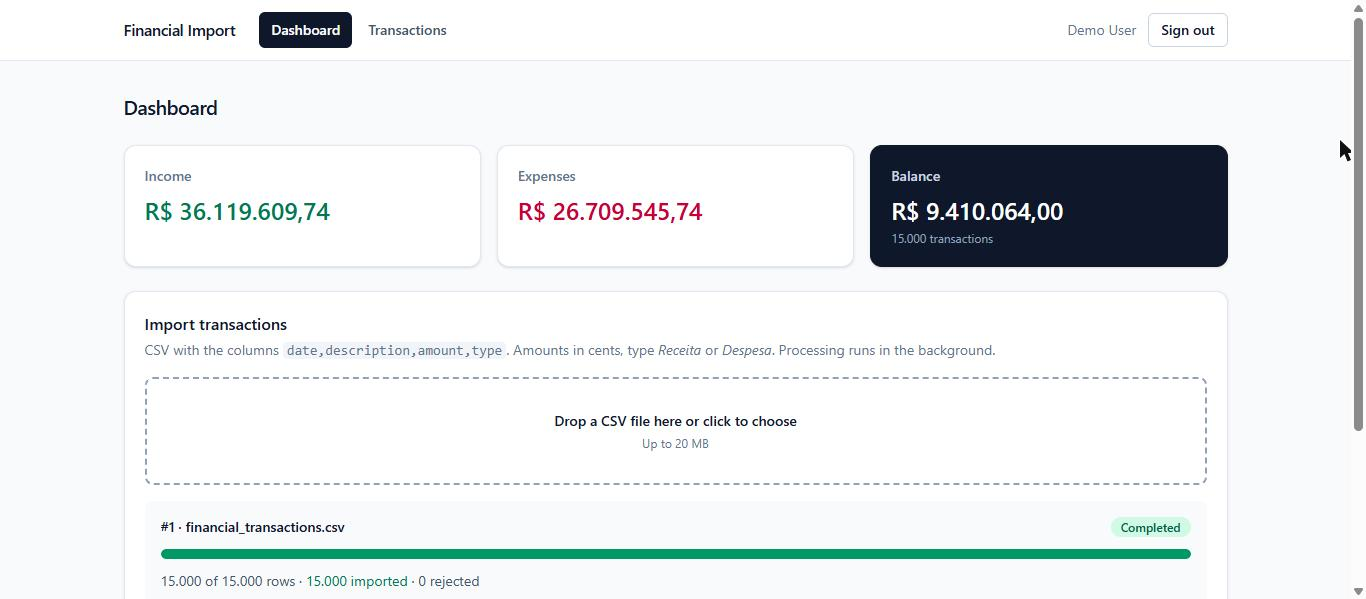
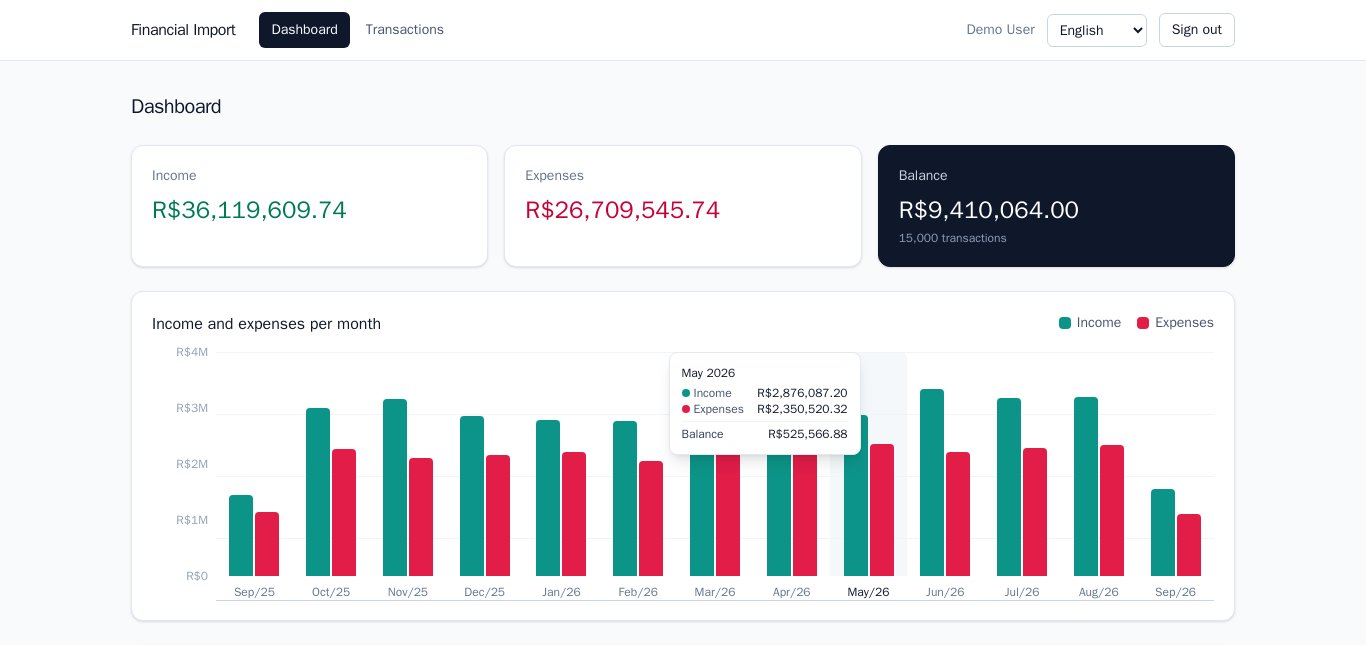
docs: describe the features beyond the brief and refresh the dashboard screenshots

diff --git a/README.md b/README.md
@@ -6,7 +6,8 @@
 
 Sistema de importação e gestão financeira a partir de CSV. Uma **API REST em Laravel 13** recebe o
 arquivo, uma **fila** valida e grava os dados em blocos paralelos, e uma **SPA em Vue 3** mostra o
-progresso do envio, um painel em cache com receitas, despesas e saldo, e a lista paginada das transações.
+progresso do envio, um painel em cache com receitas, despesas, saldo e gráfico mensal, e a lista paginada das
+transações, com busca e exportação em CSV.
 
 | Painel depois de importar o arquivo fornecido | Importação de 200 mil linhas em andamento |
 |---|---|
@@ -39,6 +40,21 @@ progresso do envio, um painel em cache com receitas, despesas e saldo, e a lista
 | Extra: CI rodando os testes | [GitHub Actions](.github/workflows/ci.yml): backend, frontend, pilha completa | Selo no topo |
 | Extra: aviso quando o processamento termina | Polling inteligente (intervalo crescente, pausa com a aba escondida); evento `ImportFinished` pronto para WebSockets | `usePolling.test.ts` |
 | Extra: tudo em inglês | Código, commits e documentação da API em inglês; interface e mensagens da API em português ou inglês ([`i18n/`](frontend/src/i18n), [`SetLocaleFromHeader`](backend/app/Http/Middleware/SetLocaleFromHeader.php)) | [`i18n.test.ts`](frontend/src/i18n/i18n.test.ts), [`LocalizationTest`](backend/tests/Feature/Http/LocalizationTest.php) |
+
+## Além do pedido
+
+O enunciado pede importação, painel e lista. Estes cinco recursos completam o uso do dia a dia:
+
+| Recurso | Como funciona | Prova |
+|---|---|---|
+| **Vários arquivos de uma vez** | Arraste ou escolha até 10 CSVs: cada um vira uma importação na fila e o resultado aparece por arquivo (enviado, repetido, inválido). A lista de importações se atualiza sozinha até todas terminarem. | Conferido no navegador; limite igual ao de envios por minuto |
+| **Baixar as linhas recusadas** | Um CSV com linha, motivo e conteúdo original, para corrigir o arquivo e reenviar. Lido de mil em mil linhas, na ordem do arquivo. | [`FailureExportTest`](backend/tests/Feature/Exports/FailureExportTest.php) |
+| **Busca pela descrição** | Parte do texto, sem diferenciar maiúsculas nem acentos ("licenca" acha "Licença"). `%` e `_` digitados valem como texto, não como curinga. | `searches the description` em [`ListTransactionsTest`](backend/tests/Feature/Transactions/ListTransactionsTest.php) |
+| **Exportar a lista em CSV** | Os mesmos filtros da tela, no **mesmo formato da importação**: o arquivo exportado pode ser importado de novo. Gerado em fluxo, com paginação por chave (memória constante em qualquer tamanho). UTF-8 com BOM, `;` em português (Excel brasileiro) e `,` em inglês, e proteção contra fórmula em célula (CSV injection). | [`TransactionExportTest`](backend/tests/Feature/Exports/TransactionExportTest.php) |
+| **Gráfico mensal** | Receitas e despesas por mês, com o saldo do mês ao passar o mouse. Sem biblioteca de gráficos; cores conferidas para daltonismo e tabela equivalente para leitor de tela. Vem do mesmo cache do painel e é renovado pelos mesmos eventos. | [`MonthlySummaryTest`](backend/tests/Feature/Dashboard/MonthlySummaryTest.php) |
+
+Os motivos de recusa ficam gravados em inglês (o banco e os logs continuam pesquisáveis) e a API os traduz
+para o idioma pedido, na tela e no CSV baixado.
 
 ---
 
@@ -128,10 +144,13 @@ Todas as rotas ficam em `/api/v1`, respondem JSON e, exceto o login, exigem `Aut
 | `POST` | `/imports` | Envia um CSV (`multipart/form-data`, campo `file`). Responde **202** na hora com a importação; **409** se o mesmo arquivo já foi enviado; **422** para arquivo ou cabeçalho errado. |
 | `GET` | `/imports` | As importações do usuário, da mais nova para a mais antiga. |
 | `GET` | `/imports/{id}` | Situação e progresso (`progress` de 0 a 100, `is_finished`), para o polling. |
-| `GET` | `/imports/{id}/failures` | Linhas recusadas: número da linha, conteúdo e motivos. |
+| `GET` | `/imports/{id}/failures` | Linhas recusadas: número da linha, conteúdo e motivos (no idioma pedido). |
+| `GET` | `/imports/{id}/failures/export` | As mesmas linhas recusadas em CSV. |
 | `POST` | `/imports/{id}/retry` | Roda de novo uma importação que falhou (**409** se ela não falhou). Linhas já gravadas não duplicam. |
 | `GET` | `/dashboard/summary` | `income_cents`, `expense_cents`, `balance_cents`, `transaction_count` (em cache). |
-| `GET` | `/transactions` | Lista paginada, da mais nova para a mais antiga. Filtros: `type`, `from`, `to` (`YYYY-MM-DD`), `per_page` (5 a 100), `page`. |
+| `GET` | `/dashboard/monthly` | Os mesmos totais por mês (`YYYY-MM`), do mais antigo para o mais novo (em cache). |
+| `GET` | `/transactions` | Lista paginada, da mais nova para a mais antiga. Filtros: `type`, `from`, `to` (`YYYY-MM-DD`), `q` (parte da descrição), `per_page` (5 a 100), `page`. |
+| `GET` | `/transactions/export` | As transações dos mesmos filtros em CSV, no formato da importação. |
 
 A importação de outro usuário responde **404**, igual a uma que não existe. **Valores são centavos
 inteiros** (`115346` = R$ 1.153,46).
@@ -393,6 +412,8 @@ Rode com `docker compose exec mysql mysql -uapp -psecret financial_import`.
 - **Armazenamento compartilhado:** os workers dividem um volume local com o arquivo enviado. Com várias
   máquinas, seria S3 (ou outro armazenamento de objetos) com leitura por faixa de bytes em cada bloco.
 - **Atualização em tempo real:** hoje é polling. O Reverb transmitiria o `ImportFinished`.
+- **Busca em escala:** a busca por "contém" percorre as transações do usuário (o índice não serve a um curinga
+  no começo). Com milhões de linhas por usuário, o próximo passo é um índice `FULLTEXT`.
 - **Paginação em escala:** paginação por cursor em vez de `COUNT(*)` com número de página.
 - **Operação da fila:** uma única instância do Redis. O Horizon traria métricas e balanceamento por fila.
 

diff --git a/README.en.md b/README.en.md
@@ -6,7 +6,8 @@
 
 A CSV import and financial management system. A **Laravel 13 REST API** receives the CSV, a
 **queue** validates it and stores it in parallel chunks, and a **Vue 3 SPA** shows the upload
-progress, a cached income/expense/balance dashboard and a paginated list of transactions.
+progress, a cached income/expense/balance dashboard with a monthly chart, and a paginated list of
+transactions with search and CSV export.
 
 | Dashboard after importing the provided file | An import of 200,000 rows in progress |
 |---|---|
@@ -35,6 +36,21 @@ progress, a cached income/expense/balance dashboard and a paginated list of tran
 | Extra: CI running the tests | [GitHub Actions](.github/workflows/ci.yml): backend, frontend, full stack | Badge above |
 | Extra: notice when processing ends | Smart polling (back-off, pauses with the tab hidden); `ImportFinished` event ready for WebSockets | `usePolling.test.ts` |
 | Extra: everything in English | Code, commits, API docs and this README in English (a Portuguese version is in [`README.md`](README.md)); the interface and API messages in Portuguese or English ([`i18n/`](frontend/src/i18n), [`SetLocaleFromHeader`](backend/app/Http/Middleware/SetLocaleFromHeader.php)) | [`i18n.test.ts`](frontend/src/i18n/i18n.test.ts), [`LocalizationTest`](backend/tests/Feature/Http/LocalizationTest.php) |
+
+## Beyond the brief
+
+The brief asks for import, dashboard and list. These five features round out day-to-day use:
+
+| Feature | How it works | Proof |
+|---|---|---|
+| **Several files at once** | Drop or pick up to 10 CSVs: each becomes its own queued import and the result is shown per file (sent, duplicate, invalid). The imports list refreshes itself until they have all finished. | Checked in the browser; the cap matches the uploads-per-minute limit |
+| **Download the rejected lines** | A CSV with line, reason and original content, to fix the file and send it again. Read 1,000 lines at a time, in file order. | [`FailureExportTest`](backend/tests/Feature/Exports/FailureExportTest.php) |
+| **Search by description** | Part of the text, ignoring case and accents ("licenca" finds "Licença"). A typed `%` or `_` is matched literally, not as a wildcard. | `searches the description` in [`ListTransactionsTest`](backend/tests/Feature/Transactions/ListTransactionsTest.php) |
+| **Export the list as CSV** | The same filters as the screen, in **the import format**: an exported file can be imported again. Streamed, with keyset pagination (flat memory at any size). UTF-8 with BOM, `;` in Portuguese (Brazilian Excel) and `,` in English, and formula neutralisation (CSV injection). | [`TransactionExportTest`](backend/tests/Feature/Exports/TransactionExportTest.php) |
+| **Monthly chart** | Income and expenses per month, with the month's balance on hover. No chart library; colours checked for colour blindness and an equivalent table for screen readers. Served from the dashboard cache and refreshed by the same events. | [`MonthlySummaryTest`](backend/tests/Feature/Dashboard/MonthlySummaryTest.php) |
+
+Rejection reasons are stored in English (the database and logs stay greppable) and the API translates them
+into the requested language, on screen and in the downloaded CSV.
 
 ---
 
@@ -124,10 +140,13 @@ All endpoints live under `/api/v1`, return JSON and, except login, need `Authori
 | `POST` | `/imports` | Uploads a CSV (`multipart/form-data`, field `file`). Answers **202** at once with the import; **409** if the same file was already uploaded; **422** for a wrong file or header. |
 | `GET` | `/imports` | The user's imports, newest first. |
 | `GET` | `/imports/{id}` | Status and progress (`progress` 0–100, `is_finished`), for polling. |
-| `GET` | `/imports/{id}/failures` | Rejected lines: line number, content and reasons. |
+| `GET` | `/imports/{id}/failures` | Rejected lines: line number, content and reasons (in the requested language). |
+| `GET` | `/imports/{id}/failures/export` | The same rejected lines as CSV. |
 | `POST` | `/imports/{id}/retry` | Runs a failed import again (**409** if it did not fail). Rows already stored are not duplicated. |
 | `GET` | `/dashboard/summary` | `income_cents`, `expense_cents`, `balance_cents`, `transaction_count` (cached). |
-| `GET` | `/transactions` | Paginated list, newest first. Filters: `type`, `from`, `to` (`YYYY-MM-DD`), `per_page` (5–100), `page`. |
+| `GET` | `/dashboard/monthly` | The same totals per month (`YYYY-MM`), oldest first (cached). |
+| `GET` | `/transactions` | Paginated list, newest first. Filters: `type`, `from`, `to` (`YYYY-MM-DD`), `q` (part of the description), `per_page` (5–100), `page`. |
+| `GET` | `/transactions/export` | The transactions matching the same filters as CSV, in the import format. |
 
 Another user's import answers **404**, exactly like one that does not exist. **Amounts are integer
 cents** (`115346` = R$ 1.153,46).
@@ -386,6 +405,8 @@ Run them with `docker compose exec mysql mysql -uapp -psecret financial_import`.
 
 ## Limitations and next steps
 
+- **Search at scale:** the "contains" search scans the user's transactions (an index cannot serve a leading
+  wildcard). With millions of rows per user, the next step is a `FULLTEXT` index.
 - **Duplicate rows:** the CSV has no transaction identifier, so two *different* files with overlapping rows
   both get imported. A fingerprint warning with user confirmation would be the next step.
 - **Shared storage:** workers share a local volume with the uploaded file. Across several hosts, this would
